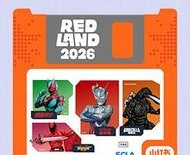
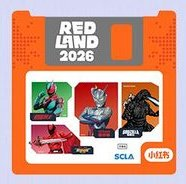
fix: 2025 交通要点改为展开在按钮下方；A24 两枚 PIN 与三张占位软盘按颜色包围框重裁，占位图居中缩小
- BoothsPage：要点列表原渲染在 6 张缩略图之后不易察觉，移到按钮正下方并加深色虚线框，按钮文案带 ▾/▴
- crop-pins.py：A24-1 / A24-2 扩到完整软盘，zone-A/B/C、night 用像素颜色自动求包围框
- style.css：待公布占位图 padding 18% 居中，像素风渲染

diff --git a/src/views/BoothsPage.vue b/src/views/BoothsPage.vue
@@ -101,15 +101,15 @@
         <div class="hr" style="border-color:#4a4980" />
         <div class="row between">
           <span class="tag yellow text">{{ venueMapRef.title }}</span>
-          <button class="pbtn sm ghost" @click="openMap = !openMap">{{ openMap ? '收起要点' : '2025 交通要点' }}</button>
+          <button class="pbtn sm ghost" @click="openMap = !openMap">{{ openMap ? '收起要点 ▴' : '2025 交通要点 ▾' }}</button>
         </div>
+        <ul v-if="openMap" class="dot-list small mt-6" style="color:#e8e7ff;background:#1c1b40;border:2px dashed #4a4980;padding:8px 10px 8px 22px">
+          <li v-for="t in venueMapRef.tips" :key="t">{{ t }}</li>
+        </ul>
         <div class="small mt-6" style="color:#c9c8ea">{{ venueMapRef.warn }}</div>
         <div class="gallery mt-10">
           <img v-for="m in venueMapRef.images" :key="m.src" :src="base + m.src" :alt="m.alt" :title="m.alt" loading="lazy" @click="openImg(base + m.src)" />
         </div>
-        <ul v-if="openMap" class="dot-list small mt-6" style="color:#e8e7ff">
-          <li v-for="t in venueMapRef.tips" :key="t">{{ t }}</li>
-        </ul>
         <div class="small mt-6" style="color:#a9a8cc">
           来源：网友 @{{ venueMapRef.source.author }} 整理 · {{ venueMapRef.source.publishedAt }}（非官方）
           <a :href="venueMapRef.source.url" target="_blank" rel="noopener" style="color:#ffe27a">原笔记</a>

diff --git a/src/style.css b/src/style.css
@@ -326,4 +326,4 @@ img { max-width: 100%; display: block; }
 .pin-thumb .q { font-family: var(--font-num); font-size: 28px; color: #b9c4d8; }
 .pin-name { font-weight: 700; font-size: 13px; margin-top: 6px; line-height: 1.3; color: var(--brown); }
 .pin-how { flex: 1; margin-top: 2px; line-height: 1.35; display: -webkit-box; -webkit-line-clamp: 3; -webkit-box-orient: vertical; overflow: hidden; }
-.pin-card.unknown .pin-thumb img { image-rendering: pixelated; }
+.pin-card.unknown .pin-thumb img { image-rendering: pixelated; box-sizing: border-box; padding: 18%; }

diff --git a/scripts/crop-pins.py b/scripts/crop-pins.py
@@ -11,13 +11,13 @@ CROPS = {
     'A06': ('public/img/booths/A06/07.jpg', (555, 850, 665, 970)),
     'A09-1': ('public/img/booths/A09/01.jpg', (125, 730, 398, 1008)),
     'A09-2': ('public/img/booths/A09/01.jpg', (425, 730, 698, 1008)),
-    'A24-1': ('public/img/booths/A24/02.jpg', (515, 610, 705, 765)),
-    'A24-2': ('public/img/booths/A24/02.jpg', (515, 775, 705, 965)),
+    'A24-1': ('public/img/booths/A24/02.jpg', (516, 608, 702, 792)),
+    'A24-2': ('public/img/booths/A24/02.jpg', (516, 784, 702, 966)),
     'A34-1': ('public/img/booths/A34/01.jpg', (108, 635, 368, 895)),
     'A34-2': ('public/img/booths/A34/01.jpg', (432, 635, 698, 895)),
     'B02-1': ('public/img/booths/B02/04.jpg', (555, 335, 710, 480)),
     'B02-2': ('public/img/booths/B02/04.jpg', (555, 485, 710, 630)),
-    'night': ('public/img/rules/pin/01.jpg', (150, 785, 240, 865)),
+    'night': ('public/img/rules/pin/01.jpg', (148, 755, 232, 861)),
     'veteran': ('public/img/rules/pin-npc/01.jpg', (220, 375, 560, 685)),
     'npc-1': ('public/img/rules/pin-npc/02.jpg', (150, 380, 440, 680)),
     'npc-2': ('public/img/rules/pin-npc/02.jpg', (390, 375, 660, 695)),
@@ -30,9 +30,9 @@ CROPS = {
     'puzzle-C': ('public/img/rules/pin/01.jpg', (550, 560, 665, 700)),
     'puzzle-all': ('public/img/rules/pin/02.jpg', (145, 280, 670, 730)),
     # 三区通用「?」软盘，给未公布展位占位
-    'zone-A': ('public/img/rules/pin/01.jpg', (155, 222, 245, 308)),
-    'zone-B': ('public/img/rules/pin/01.jpg', (155, 410, 245, 495)),
-    'zone-C': ('public/img/rules/pin/01.jpg', (155, 580, 245, 665)),
+    'zone-A': ('public/img/rules/pin/01.jpg', (150, 221, 227, 306)),
+    'zone-B': ('public/img/rules/pin/01.jpg', (151, 411, 229, 495)),
+    'zone-C': ('public/img/rules/pin/01.jpg', (148, 583, 228, 659)),
 }
 
 MAX_SIDE = 320
